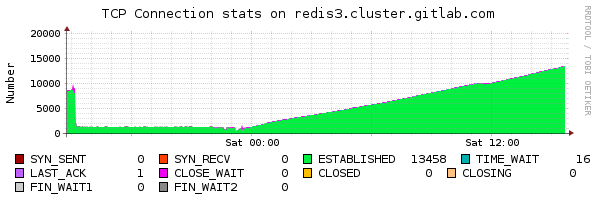
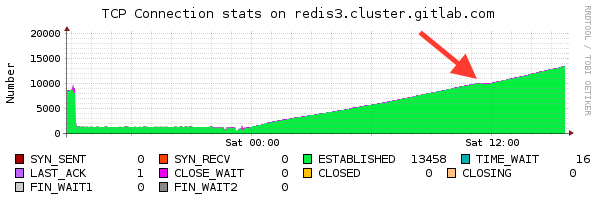
Add arrow to point and link from README

Changed region(s): [[0.7236, 0.209, 0.8141, 0.3881], [0.6935, 0.1493, 0.7236, 0.209]]

diff --git a/README.md b/README.md
@@ -7,7 +7,8 @@ The aim of this project is to have a quick guide of what to do when an emergency
 * [The NFS server `backend4` is gone](troubleshooting/nfs-server.md)
 * [The DB server `db[45]` is under heavy load](troubleshooting/postgresql_heavy_load.md)
 * [The DB replication has stopped](troubleshooting/postgresql_replication.md)
-* [The Redis replication lag](troubleshooting/redis_replication.md)
+* [Redis replication has stopped](troubleshooting/redis_replication.md)
+* [Redis keys state UNKNOWN](troubleshooting/redis_running_out_of_keys.md)
 
 ## How do I
 
